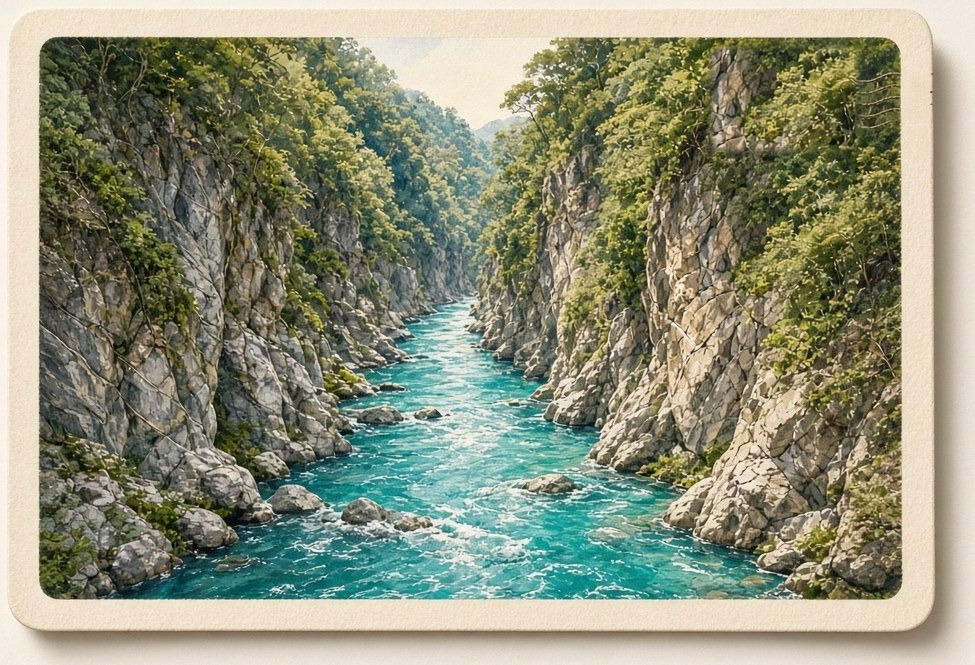
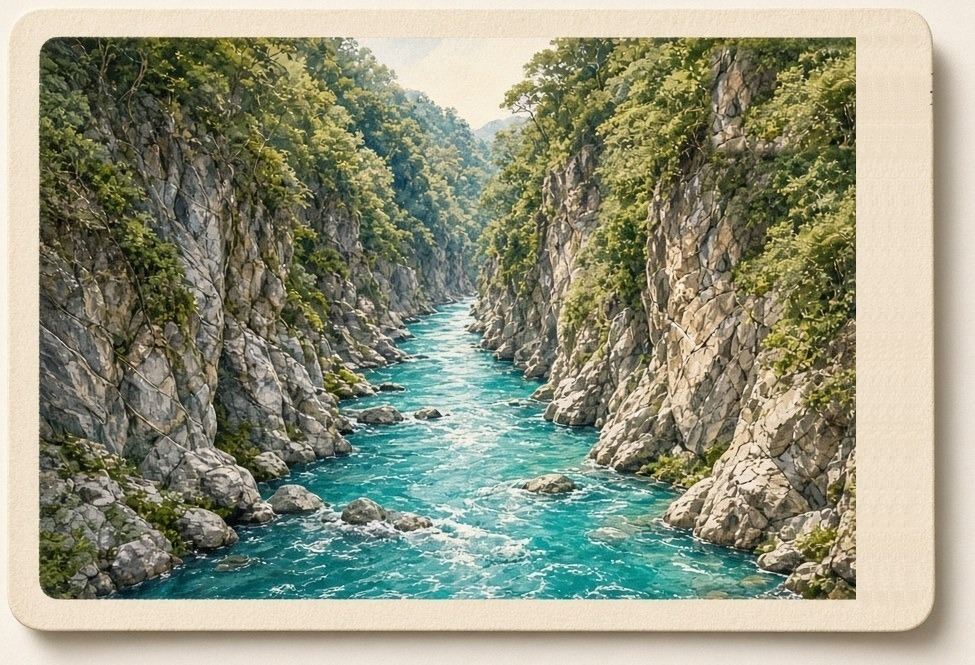
fix: 郵戳波線改到郵票右邊，不壓到風景 (v2.26.10)
郵票留在右上。波浪郵戳改到它右邊的紙面上，不再蓋住畫面。風景仍只在窗裡推移。快取 tripmate-v83。

Changed region(s): [[0.8615, 0.0602, 0.9231, 0.9023]]

diff --git a/index.html b/index.html
@@ -1075,9 +1075,11 @@ html.dark .sovstory{box-shadow:none;border:1px solid var(--line)}
 .post-card{position:relative;display:block;width:100%;line-height:0;border-radius:16px;overflow:hidden}
 .post-base{display:block;width:100%;height:auto;border-radius:0}
 .post-window{position:absolute;z-index:1;overflow:hidden;left:var(--wl);top:var(--wt);width:var(--ww);height:var(--wh)}
-.post-frank{position:absolute;z-index:2;left:var(--fl);top:var(--ft);width:var(--fw);height:auto;pointer-events:none}
-.post-live[data-mark="gorge"]{--wl:3.897%;--wt:5.714%;--ww:88.41%;--wh:84.511%;--il:-4.408%;--it:-6.761%;--iw:113.109%;--ih:118.327%;--fl:73.026%;--ft:7.068%;--fw:22.872%;--ox:48.103%;--oy:47.97%}
-.post-live[data-mark="skytree"]{--wl:3.818%;--wt:5.037%;--ww:92.047%;--wh:90.074%;--il:-4.147%;--it:-5.592%;--iw:108.641%;--ih:111.02%;--fl:65.642%;--ft:8.593%;--fw:24.708%;--ox:49.841%;--oy:50.074%}
+.post-stamp,.post-cancel{position:absolute;z-index:2;height:auto;pointer-events:none}
+.post-stamp{left:var(--sl);top:var(--st);width:var(--sw)}
+.post-cancel{left:var(--cl);top:var(--ct);width:var(--cw)}
+.post-live[data-mark="gorge"]{--wl:3.897%;--wt:5.714%;--ww:82.256%;--wh:84.511%;--il:-4.738%;--it:-6.762%;--iw:121.571%;--ih:118.327%;--sl:73.026%;--st:7.068%;--sw:15.179%;--cl:89.026%;--ct:10.481%;--cw:3.692%;--ox:45.026%;--oy:47.97%}
+.post-live[data-mark="skytree"]{--wl:3.818%;--wt:5.037%;--ww:84.518%;--wh:90.074%;--il:-4.517%;--it:-5.592%;--iw:118.319%;--ih:111.02%;--sl:77.731%;--st:8.593%;--sw:12.619%;--cl:90.987%;--ct:14.704%;--cw:7.423%;--ox:46.076%;--oy:50.074%}
 .post-live .post-window .postimg{position:absolute;left:var(--il);top:var(--it);width:var(--iw);height:var(--ih);max-width:none;border-radius:0;transform-origin:var(--ox) var(--oy);animation:postcardlive 16s ease-in-out infinite alternate}
 @keyframes postcardlive{from{transform:scale(1)}to{transform:scale(1.055) translate3d(-1.4%,.6%,0)}}
 .sov-lg .mcard-shine,.boardface .mcard-shine{animation:none;opacity:0}
@@ -1310,7 +1312,7 @@ addEventListener('load',()=>(window.requestIdleCallback||setTimeout)(()=>setTime
 let impP=null;function openImport(){return (impP||(impP=new Promise((ok,no)=>{const e=document.createElement('script');e.src='importer.js';e.onload=ok;e.onerror=()=>{impP=null;no()};document.head.append(e)}))).then(()=>importSheet()).catch(()=>toast('載入失敗，請稍後再試'))}
 function ticketTodayCount(t){if(!t||typeof Tickets==='undefined'||!Tickets.isToday)return 0;const today=Tickets.todayYmd();return (t.tickets||[]).filter(x=>!x.used&&Tickets.isToday(x,t,today)).length}
 function render(){const on=k=>k===tab||(k==='list'&&(tab==='edit'||tab==='new'));const nToday=ticketTodayCount(T());$('#nav').innerHTML=TABS.map(([k,n])=>{const badge=k==='expense'&&nToday?`<b class="nb">${nToday>99?'99+':nToday}</b>`:'';const label=k==='expense'&&nToday?` aria-label="支出與票券，今天 ${nToday} 張"`:'';const wide=n.length>2?' wide':'';return `<button class="${on(k)?'on':''}${wide}" onclick="go('${k}')"${label}><span class="nic">${badge}<svg viewBox="0 0 24 24">${TI[k]}</svg></span>${n}</button>`}).join('');$('#app').innerHTML=V[tab]()+foot();if(tab==='edit'){bindDays();bindSort();const tt=T();if(tt)wxLoad(tt);if(typeof fillLive==='function')fillLive();maybeAutoShift()}if(tab==='deals'||tab==='edit')loadDeals();if(tab==='expense'&&expPane!=='tix'&&typeof paintExp==='function')paintExp();if(tab==='food'&&typeof paintFood==='function')paintFood();if(tab==='more'&&typeof paintAccount==='function')paintAccount();if(tab==='more'&&typeof paintBackupHint==='function')paintBackupHint();xswLinks();if(window.Journey)Journey.afterPaint()}
-const foot=()=>{const t=T(),fly=t?flyUrl(t):`${BASE}flysave/?from=trip`,fan=t?fanUrl(t):`${BASE}fansave/?from=trip`;return `<footer><div class="fb"><a class="cb" href="${SPONSOR_URL}" target="_blank" rel="noopener"><img src="icons/coffee-trip.svg" alt="" width="40" height="40">贊助</a><a class="cb" href="#" onclick="shareSite();return false"><img src="icons/share-trip.svg" alt="" width="40" height="40">分享</a></div><div class="fl"><a href="#" onclick="info('about');return false">關於我們</a><i>|</i><a href="#" onclick="info('privacy');return false">隱私權政策</a><i>|</i><a href="#" onclick="info('terms');return false">服務條款</a></div><div class="fs"><a class="sfly" id="sfly" href="${fly}"><img src="icons/fly-fly.svg" alt="" width="24" height="24">飛省 查機票</a><a class="sfan" id="sfan" href="${fan}"><img src="icons/hotel-fan.svg" alt="" width="24" height="24">飯省 找飯店</a></div><div class="vw" id="vw"${VW?``:` hidden`}>${VW?`👀 累計瀏覽 ${VW.toLocaleString()}`:``}</div><div class="copy">© 2026 旅伴 TripMate・推薦景點資料截至 2026-10-19・v2.26.9</div></footer>`};
+const foot=()=>{const t=T(),fly=t?flyUrl(t):`${BASE}flysave/?from=trip`,fan=t?fanUrl(t):`${BASE}fansave/?from=trip`;return `<footer><div class="fb"><a class="cb" href="${SPONSOR_URL}" target="_blank" rel="noopener"><img src="icons/coffee-trip.svg" alt="" width="40" height="40">贊助</a><a class="cb" href="#" onclick="shareSite();return false"><img src="icons/share-trip.svg" alt="" width="40" height="40">分享</a></div><div class="fl"><a href="#" onclick="info('about');return false">關於我們</a><i>|</i><a href="#" onclick="info('privacy');return false">隱私權政策</a><i>|</i><a href="#" onclick="info('terms');return false">服務條款</a></div><div class="fs"><a class="sfly" id="sfly" href="${fly}"><img src="icons/fly-fly.svg" alt="" width="24" height="24">飛省 查機票</a><a class="sfan" id="sfan" href="${fan}"><img src="icons/hotel-fan.svg" alt="" width="24" height="24">飯省 找飯店</a></div><div class="vw" id="vw"${VW?``:` hidden`}>${VW?`👀 累計瀏覽 ${VW.toLocaleString()}`:``}</div><div class="copy">© 2026 旅伴 TripMate・推薦景點資料截至 2026-10-19・v2.26.10</div></footer>`};
 const V={
 list:()=>{const card=t=>`<div class="card${t.archived?' shelf':''}" onclick="cur='${t.id}';dayIx=0;save();go('edit')" style="cursor:pointer"><div class="row"><div>${ui('suitcase')}<b>${esc(t.dest)}</b> <span class="mut">${esc(t.dep)} → ${esc(t.ret)} · ${esc(t.pax)} 人</span></div><span style="flex:0" onclick="event.stopPropagation()">${ib('del',`delTrip('${t.id}')`,'刪除')}</span></div><div class="mut">${t.archived?'已封存 · ':''}${(t.days||[]).flat().length} 個景點</div></div>`;const live=trips.filter(t=>!t.archived),arch=trips.filter(t=>t.archived);const head=`<div class="row" style="justify-content:space-between;align-items:center"><h2 style="margin:0">我的行程</h2><button class="btn sm" style="flex:0" onclick="go('new')">＋ 新增行程</button></div><div class="row" style="margin:8px 0"><button class="btn ghost sm" style="flex:0" onclick="openImport()">匯入行程</button></div>`;const liveHtml=live.length?live.map(card).join(''):(arch.length?`<div class="card"><p>沒有進行中的行程。</p><button class="btn" onclick="go('new')">建立新行程</button></div>`:`<div class="card"><p>還沒有行程。</p><button class="btn" onclick="go('new')">建立第一個行程</button></div>`);const been=window.Journey?`<button type="button" class="vmap-entry" onclick="Journey.openVisitMap()"><span class="vmap-ico" aria-hidden="true"><svg viewBox="0 0 24 24"><path d="M4 6l6-2 4 2 6-2v14l-6 2-4-2-6 2z"/><path d="M10 4v14M14 6v14"/></svg></span><span><b>去過的地方</b><small>${esc(Journey.visitBrief())}</small></span></button>`:'';const keeps=window.Journey&&Journey.shelfHtml?Journey.shelfHtml(arch):(arch.length?`<h3 class="shelfhead">封存</h3>${arch.map(card).join('')}`:'');return head+been+liveHtml+keeps},
 new:()=>{let d=new Date(Date.now()+14*864e5).toISOString().slice(0,10),r=new Date(Date.now()+18*864e5).toISOString().slice(0,10);const ok=x=>x&&/^\d{4}-\d\d-\d\d$/.test(x)&&x>=new Date().toISOString().slice(0,10);if(PF){if(ok(PF.dep))d=PF.dep;if(ok(PF.ret)&&PF.ret>=d)r=PF.ret;else if(ok(PF.dep)){const x=new Date(d);x.setDate(x.getDate()+3);r=x.toISOString().slice(0,10)}}

diff --git a/sw.js b/sw.js
@@ -1,4 +1,4 @@
-const C='tripmate-v82',A=['./','index.html','manifest.json','planner.js','placeq.js','placeurl.js','legs.js','journey.js','extras.js','food.js','fx.js','share.js','tickets.js','notify.js','visitgeo.js','spotlore.js','vendor/lz-string.min.js','sync.js','collab.js','live.js','importer.js','urlimport.js','data/local-food.json','icons/icon.svg','icons/icon-192.png','icons/ui-spot.svg','icons/ui-fly.svg','icons/ui-hotel.svg','icons/ui-suitcase.svg','icons/coffee-trip.svg','icons/share-trip.svg','icons/fly-fly.svg','icons/hotel-fan.svg','icons/cat-food.svg','icons/cat-sightseeing.svg','icons/cat-shopping.svg','icons/cat-hotel.svg','icons/cat-transport.svg','icons/cat-cafe.svg','icons/cat-nature.svg','icons/cat-museum.svg','icons/cat-nightlife.svg','icons/cat-custom.svg','assets/keepsakes/pass-0.webp','assets/keepsakes/pass-1.webp','assets/keepsakes/pass-2.webp','assets/keepsakes/pass-3.webp','assets/keepsakes/pass-4.webp','assets/keepsakes/charm-0.webp','assets/keepsakes/charm-1.webp','assets/keepsakes/charm-2.webp','assets/keepsakes/charm-3.webp','assets/keepsakes/charm-4.webp','assets/keepsakes/pack-0.webp','assets/keepsakes/pack-1.webp','assets/keepsakes/pack-2.webp','assets/keepsakes/pack-3.webp','assets/keepsakes/pack-4.webp','assets/keepsakes/stamp-0.webp','assets/keepsakes/stamp-1.webp','assets/keepsakes/stamp-2.webp','assets/keepsakes/stamp-3.webp','assets/keepsakes/stamp-4.webp','assets/keepsakes/post-gorge.jpg','assets/keepsakes/post-gorge-stamp.png','assets/keepsakes/post-skytree.jpg','assets/keepsakes/post-skytree-stamp.png','assets/keepsakes/charm-hul.jpg','assets/keepsakes/charm-tyo.jpg','assets/keepsakes/stamp-hul.jpg','assets/keepsakes/stamp-tyo.jpg','assets/keepsakes/pass-hul.jpg','assets/keepsakes/pack-hul.jpg','assets/keepsakes/badge-hul.jpg','assets/keepsakes/ema-hul.jpg','assets/keepsakes/card-0.webp','assets/keepsakes/card-1.webp','assets/keepsakes/card-2.webp','assets/keepsakes/card-3.webp','assets/keepsakes/card-4.webp','assets/keepsakes/badge-0.webp','assets/keepsakes/badge-1.webp','assets/keepsakes/badge-2.webp','assets/keepsakes/badge-3.webp','assets/keepsakes/badge-4.webp','assets/keepsakes/ema-0.webp','assets/keepsakes/ema-1.webp','assets/keepsakes/ema-2.webp','assets/keepsakes/ema-3.webp','assets/keepsakes/ema-4.webp'];
+const C='tripmate-v83',A=['./','index.html','manifest.json','planner.js','placeq.js','placeurl.js','legs.js','journey.js','extras.js','food.js','fx.js','share.js','tickets.js','notify.js','visitgeo.js','spotlore.js','vendor/lz-string.min.js','sync.js','collab.js','live.js','importer.js','urlimport.js','data/local-food.json','icons/icon.svg','icons/icon-192.png','icons/ui-spot.svg','icons/ui-fly.svg','icons/ui-hotel.svg','icons/ui-suitcase.svg','icons/coffee-trip.svg','icons/share-trip.svg','icons/fly-fly.svg','icons/hotel-fan.svg','icons/cat-food.svg','icons/cat-sightseeing.svg','icons/cat-shopping.svg','icons/cat-hotel.svg','icons/cat-transport.svg','icons/cat-cafe.svg','icons/cat-nature.svg','icons/cat-museum.svg','icons/cat-nightlife.svg','icons/cat-custom.svg','assets/keepsakes/pass-0.webp','assets/keepsakes/pass-1.webp','assets/keepsakes/pass-2.webp','assets/keepsakes/pass-3.webp','assets/keepsakes/pass-4.webp','assets/keepsakes/charm-0.webp','assets/keepsakes/charm-1.webp','assets/keepsakes/charm-2.webp','assets/keepsakes/charm-3.webp','assets/keepsakes/charm-4.webp','assets/keepsakes/pack-0.webp','assets/keepsakes/pack-1.webp','assets/keepsakes/pack-2.webp','assets/keepsakes/pack-3.webp','assets/keepsakes/pack-4.webp','assets/keepsakes/stamp-0.webp','assets/keepsakes/stamp-1.webp','assets/keepsakes/stamp-2.webp','assets/keepsakes/stamp-3.webp','assets/keepsakes/stamp-4.webp','assets/keepsakes/post-gorge.jpg','assets/keepsakes/post-gorge-stamp.png','assets/keepsakes/post-gorge-cancel.png','assets/keepsakes/post-skytree.jpg','assets/keepsakes/post-skytree-stamp.png','assets/keepsakes/post-skytree-cancel.png','assets/keepsakes/charm-hul.jpg','assets/keepsakes/charm-tyo.jpg','assets/keepsakes/stamp-hul.jpg','assets/keepsakes/stamp-tyo.jpg','assets/keepsakes/pass-hul.jpg','assets/keepsakes/pack-hul.jpg','assets/keepsakes/badge-hul.jpg','assets/keepsakes/ema-hul.jpg','assets/keepsakes/card-0.webp','assets/keepsakes/card-1.webp','assets/keepsakes/card-2.webp','assets/keepsakes/card-3.webp','assets/keepsakes/card-4.webp','assets/keepsakes/badge-0.webp','assets/keepsakes/badge-1.webp','assets/keepsakes/badge-2.webp','assets/keepsakes/badge-3.webp','assets/keepsakes/badge-4.webp','assets/keepsakes/ema-0.webp','assets/keepsakes/ema-1.webp','assets/keepsakes/ema-2.webp','assets/keepsakes/ema-3.webp','assets/keepsakes/ema-4.webp'];
 // 繞過 GitHub Pages 的 max-age，避免新快取被 HTTP 快取塞進舊的 index.html
 async function putFresh(cache,url){
   const res=await fetch(new Request(url,{cache:'reload'}));

diff --git a/journey.js b/journey.js
@@ -1090,11 +1090,12 @@
     const label = (b.city || '') + (b.land ? ' ' + b.land : '');
     const src = postcardPrint(b.mark);
     if (src) {
-      const frank = src.replace('.jpg', '-stamp.png');
-      return '<span class="post post-print post-live" data-mark="' + esc(b.mark) + '" role="img" aria-label="' + esc(label) + '"><span class="post-card"><img class="post-base" src="' + src + '" alt="" draggable="false"><span class="post-window"><img class="postimg" src="' + src + '" alt="" draggable="false"></span><img class="post-frank" src="' + frank + '" alt="" draggable="false"></span></span>';
+      const stamp = src.replace('.jpg', '-stamp.png');
+      const cancel = src.replace('.jpg', '-cancel.png');
+      return '<span class="post post-print post-live" data-mark="' + esc(b.mark) + '" role="img" aria-label="' + esc(label) + '"><span class="post-card"><img class="post-base" src="' + src + '" alt="" draggable="false"><span class="post-window"><img class="postimg" src="' + src + '" alt="" draggable="false"></span><img class="post-stamp" src="' + stamp + '" alt="" draggable="false"><img class="post-cancel" src="' + cancel + '" alt="" draggable="false"></span></span>';
     }
     const id = sovId('post');
-    return '<span class="post"><svg class="postart" viewBox="0 0 360 220" role="img" aria-label="' + esc(label) + '" data-mark="' + esc(b.mark) + '"><rect width="360" height="220" rx="18" fill="#f7f2e8"/><clipPath id="' + id + '"><rect x="14" y="14" width="332" height="168" rx="12"/></clipPath><g clip-path="url(#' + id + ')">' + postcardScene(b, id) + '</g>' + postcardStamp(b) + '</svg></span>';
+    return '<span class="post"><svg class="postart" viewBox="0 0 360 220" role="img" aria-label="' + esc(label) + '" data-mark="' + esc(b.mark) + '"><rect width="360" height="220" rx="18" fill="#f7f2e8"/><clipPath id="' + id + '"><rect x="14" y="14" width="300" height="168" rx="12"/></clipPath><g clip-path="url(#' + id + ')">' + postcardScene(b, id) + '</g>' + postcardStamp(b) + '</svg></span>';
   }
   function postcardScene(b, id) {
     const mark = b.mark || 'pin';
@@ -1221,7 +1222,7 @@
       : b.mark === 'gorge'
         ? '<path fill="#8ea09a" d="M8 40 C14 28 16 22 22 26 C18 32 16 36 14 40 Z"/><path fill="#7e928c" d="M44 40 C38 26 34 18 28 24 C32 30 36 36 38 40 Z"/><path fill="#3d9aaa" d="M18 40 C22 32 26 30 30 34 C28 36 24 38 22 40 Z"/>'
         : '<path fill="#c47a4a" d="M10 38 L26 16 L42 38 Z"/><circle cx="34" cy="16" r="4" fill="#e0b15a"/>';
-    return '<path d="M338 38c8 3 12 2 18 -1M336 46c10 3 14 2 20 -1M338 54c8 3 10 2 14 0" fill="none" stroke="#c4b49a" stroke-width="1.3" stroke-linecap="round"/>' +
+    return '<path d="M336 40c8 2 14 1 18 -1M334 50c10 2 16 1 20 -1M336 60c8 2 12 1 14 0" fill="none" stroke="#b7a48e" stroke-width="1.5" stroke-linecap="round"/>' +
       '<g transform="translate(278,24)"><rect width="52" height="60" rx="3" fill="#f7f1e4" stroke="#c4b49a" stroke-width="1.2"/>' +
       '<rect x="4" y="4" width="44" height="52" rx="1" fill="none" stroke="#e4d7c4" stroke-width=".8"/>' + art + '</g>';
   }
